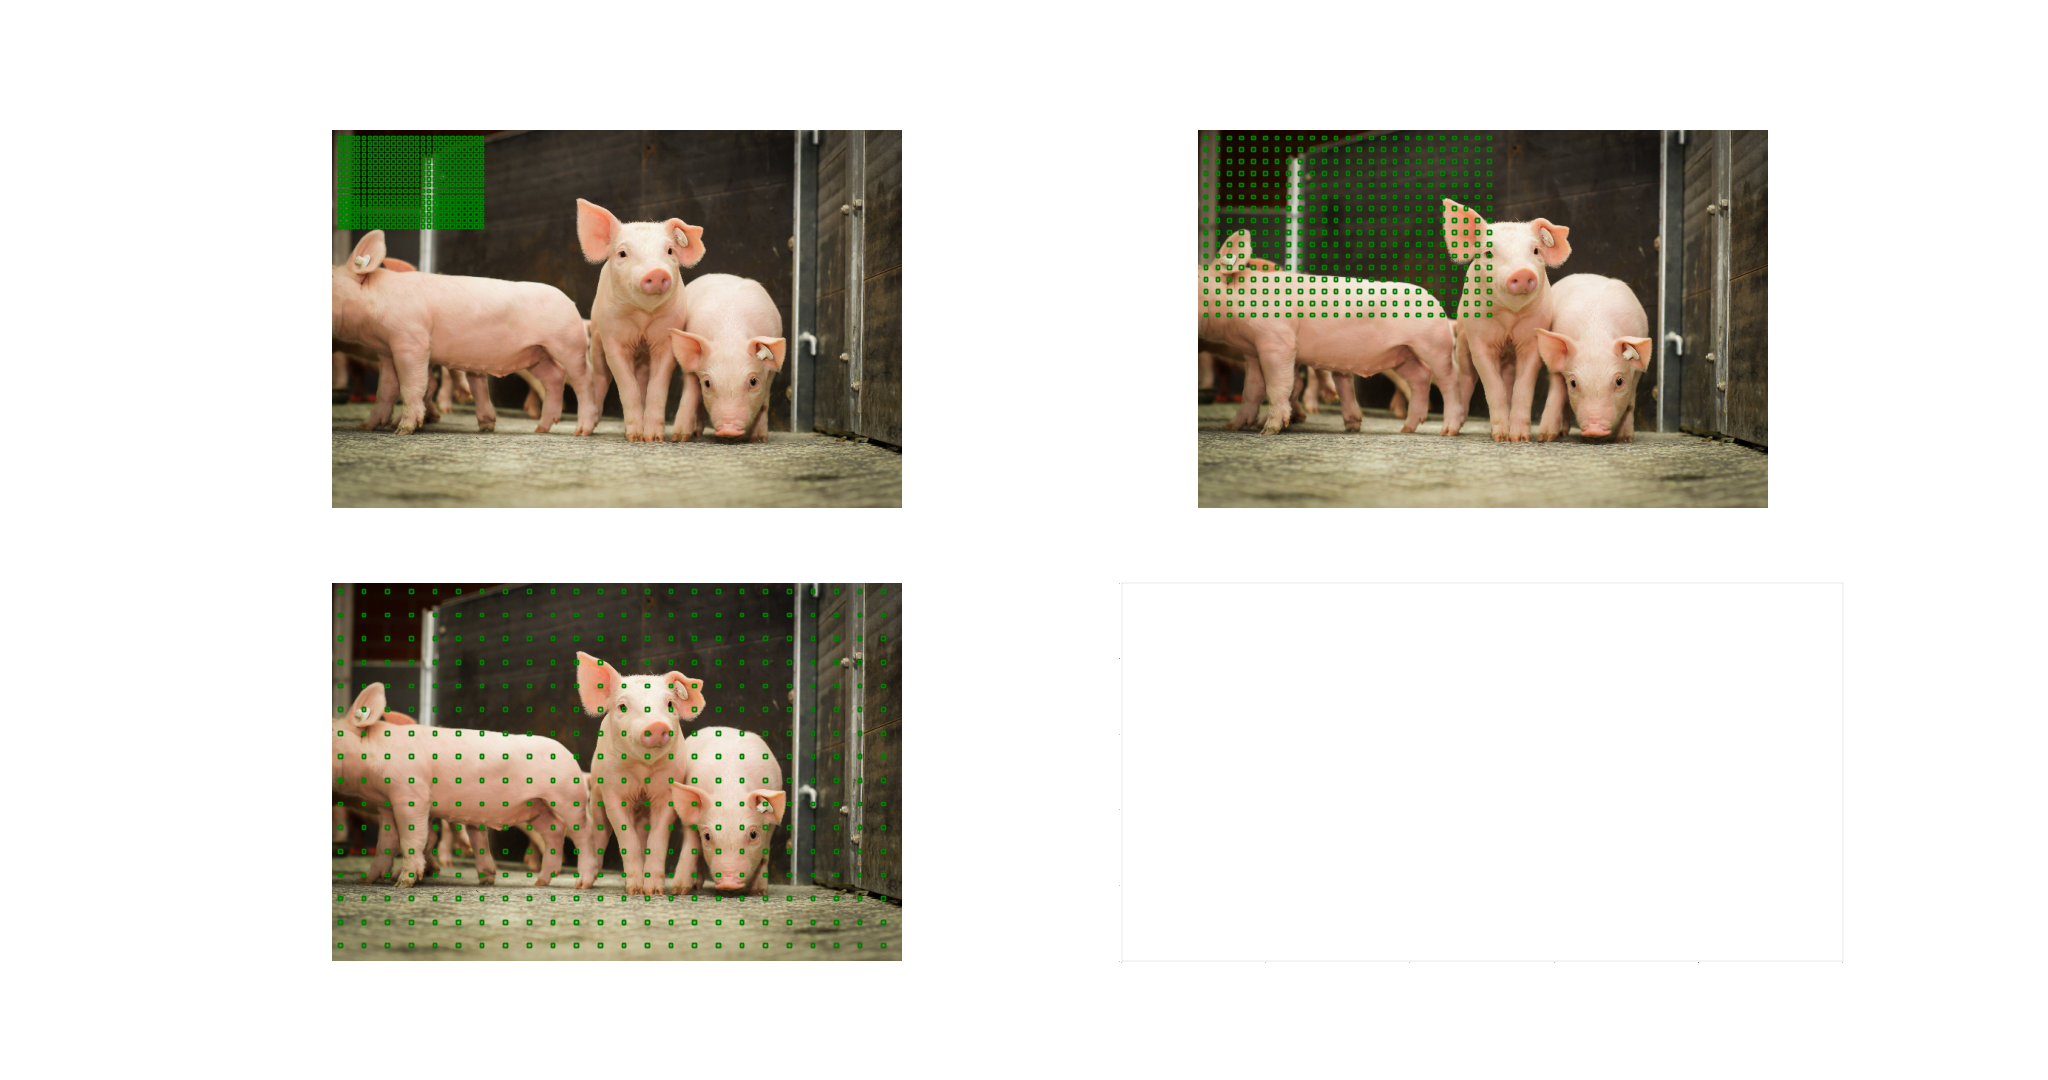
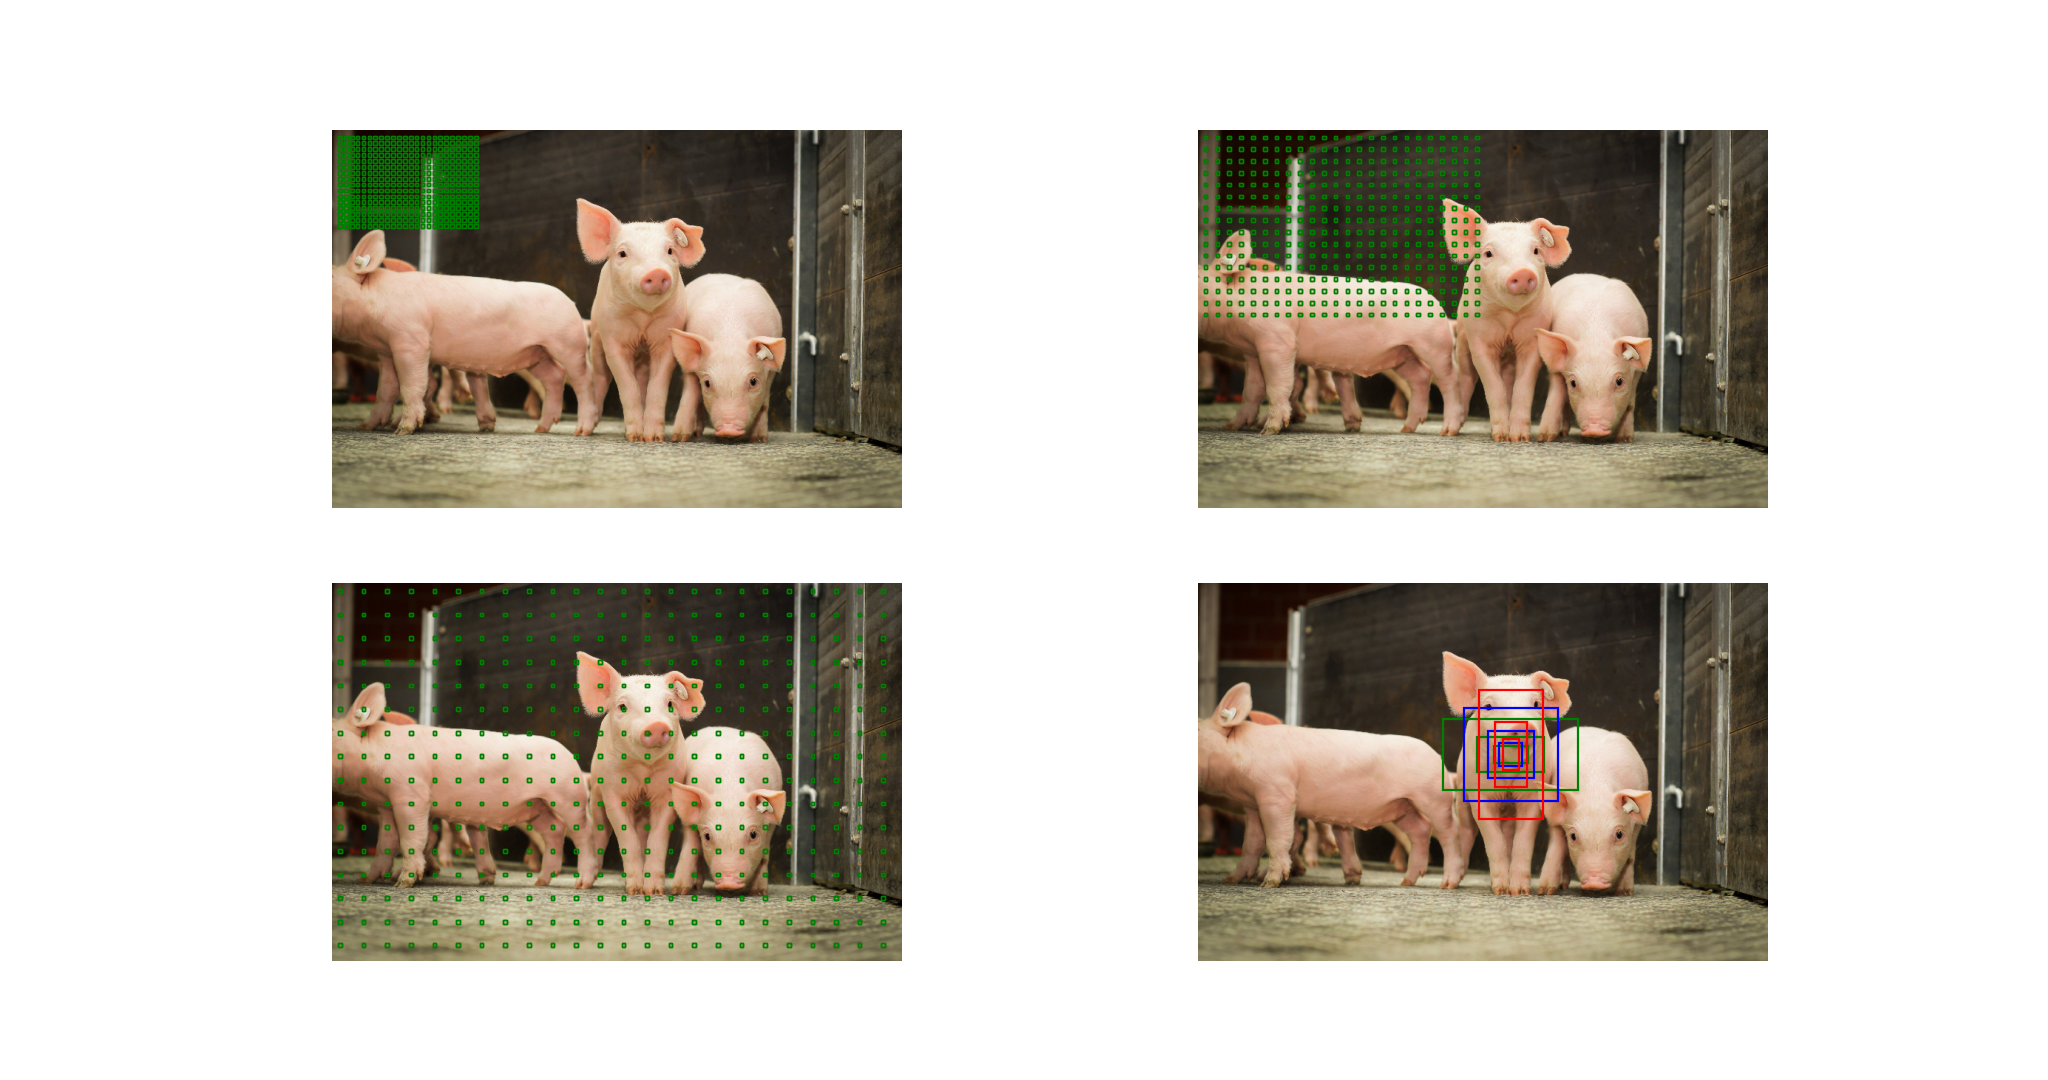
update plot

Changed region(s): [[0.5625, 0.5194, 0.875, 0.9167]]

diff --git a/src/prototype/plot_anchor_imgs.py b/src/prototype/plot_anchor_imgs.py
@@ -31,7 +31,7 @@ img = rescale_img(img_dir)[0]
 print(f"Image width  : {img.shape[1]}")
 print(f"Image height : {img.shape[0]}")
 
-list_feat_stride = [8, 16, 32]
+list_feat_stride = [8, 16, 32, 32]
 
 def cal_anchors(_feat_stride):
 
@@ -39,8 +39,8 @@ def cal_anchors(_feat_stride):
 
     _conv_scale = 32
 
-    feature_w = img.shape[1] / _conv_scale
-    feature_h = img.shape[0] / _conv_scale
+    feature_w = math.floor(img.shape[1] / _conv_scale)
+    feature_h = math.floor(img.shape[0] / _conv_scale)
 
     print(f"Feature width  : {feature_w}")
     print(f"Feature height : {feature_h}")
@@ -92,9 +92,10 @@ grid = fig.subplots(2, 2)
 print("==========================")
 
 for i, ax in enumerate(fig.get_axes()):
-    if i == 3: break
+    # 384 * 9 anchors
+    all_anchors = cal_anchors(list_feat_stride[i]) 
 
-    all_anchors = cal_anchors(list_feat_stride[i])
+    print(f"Total anchors: {all_anchors.shape[0]}")
 
     ax.set_axis_off()
 
@@ -112,10 +113,29 @@ for i, ax in enumerate(fig.get_axes()):
             all_anchors[:, 3] - all_anchors[:, 1],
         ]).transpose()
 
-    for k in range(all_anchors.shape[0]):
-        reg = mpatches.Rectangle((anchor_plt[k][0], anchor_plt[k][1]), 5, 5, linewidth=10, edgecolor='g', facecolor="none")
-        # reg = mpatches.Rectangle((rects[k][0], rects[k][1]), rects[k][2], rects[k][3], linewidth=10, edgecolor='g', facecolor="none")
-        
-        ax.add_patch(reg)
+    if i == 3:
+        for idx in range(all_anchors.shape[0]):
+            # reg = mpatches.Rectangle((anchor_plt[k][0], anchor_plt[k][1]), 5, 5, linewidth=10, edgecolor='g', facecolor="none")
+
+            flag = 181 * 9
+
+            if idx >= flag:
+                for k in range(flag, flag+3):
+                    reg_g = mpatches.Rectangle((rects[k][0], rects[k][1]), rects[k][2], rects[k][3], linewidth=20, edgecolor='g', facecolor="none")
+                    ax.add_patch(reg_g)
+                for k in range(flag+3, flag+6):
+                    reg_b = mpatches.Rectangle((rects[k][0], rects[k][1]), rects[k][2], rects[k][3], linewidth=20, edgecolor='b', facecolor="none")
+                    ax.add_patch(reg_b)
+                for k in range(flag+6, flag+9):
+                    reg_r = mpatches.Rectangle((rects[k][0], rects[k][1]), rects[k][2], rects[k][3], linewidth=20, edgecolor='r', facecolor="none")
+                    ax.add_patch(reg_r)
+
+                break
+    else:
+        for k in range(all_anchors.shape[0]):
+            reg = mpatches.Rectangle((anchor_plt[k][0], anchor_plt[k][1]), 5, 5, linewidth=10, edgecolor='g', facecolor="none")
+            # reg = mpatches.Rectangle((rects[k][0], rects[k][1]), rects[k][2], rects[k][3], linewidth=10, edgecolor='g', facecolor="none")
+            
+            ax.add_patch(reg)
 
 plt.savefig("/home/howard/project/object-detection/images/plot/test_anchor_generate.png")

diff --git a/src/prototype/generate_anchors.py b/src/prototype/generate_anchors.py
@@ -1,7 +1,7 @@
 import numpy as np
 
 def generate_anchors(base_size=16, ratios=[0.5, 1, 2],
-                     scales=2**np.arange(3, 6)):
+                     scales=2**np.arange(1, 4)):
     # scales = [2^3, 2^4, 2^5]
 
     """
